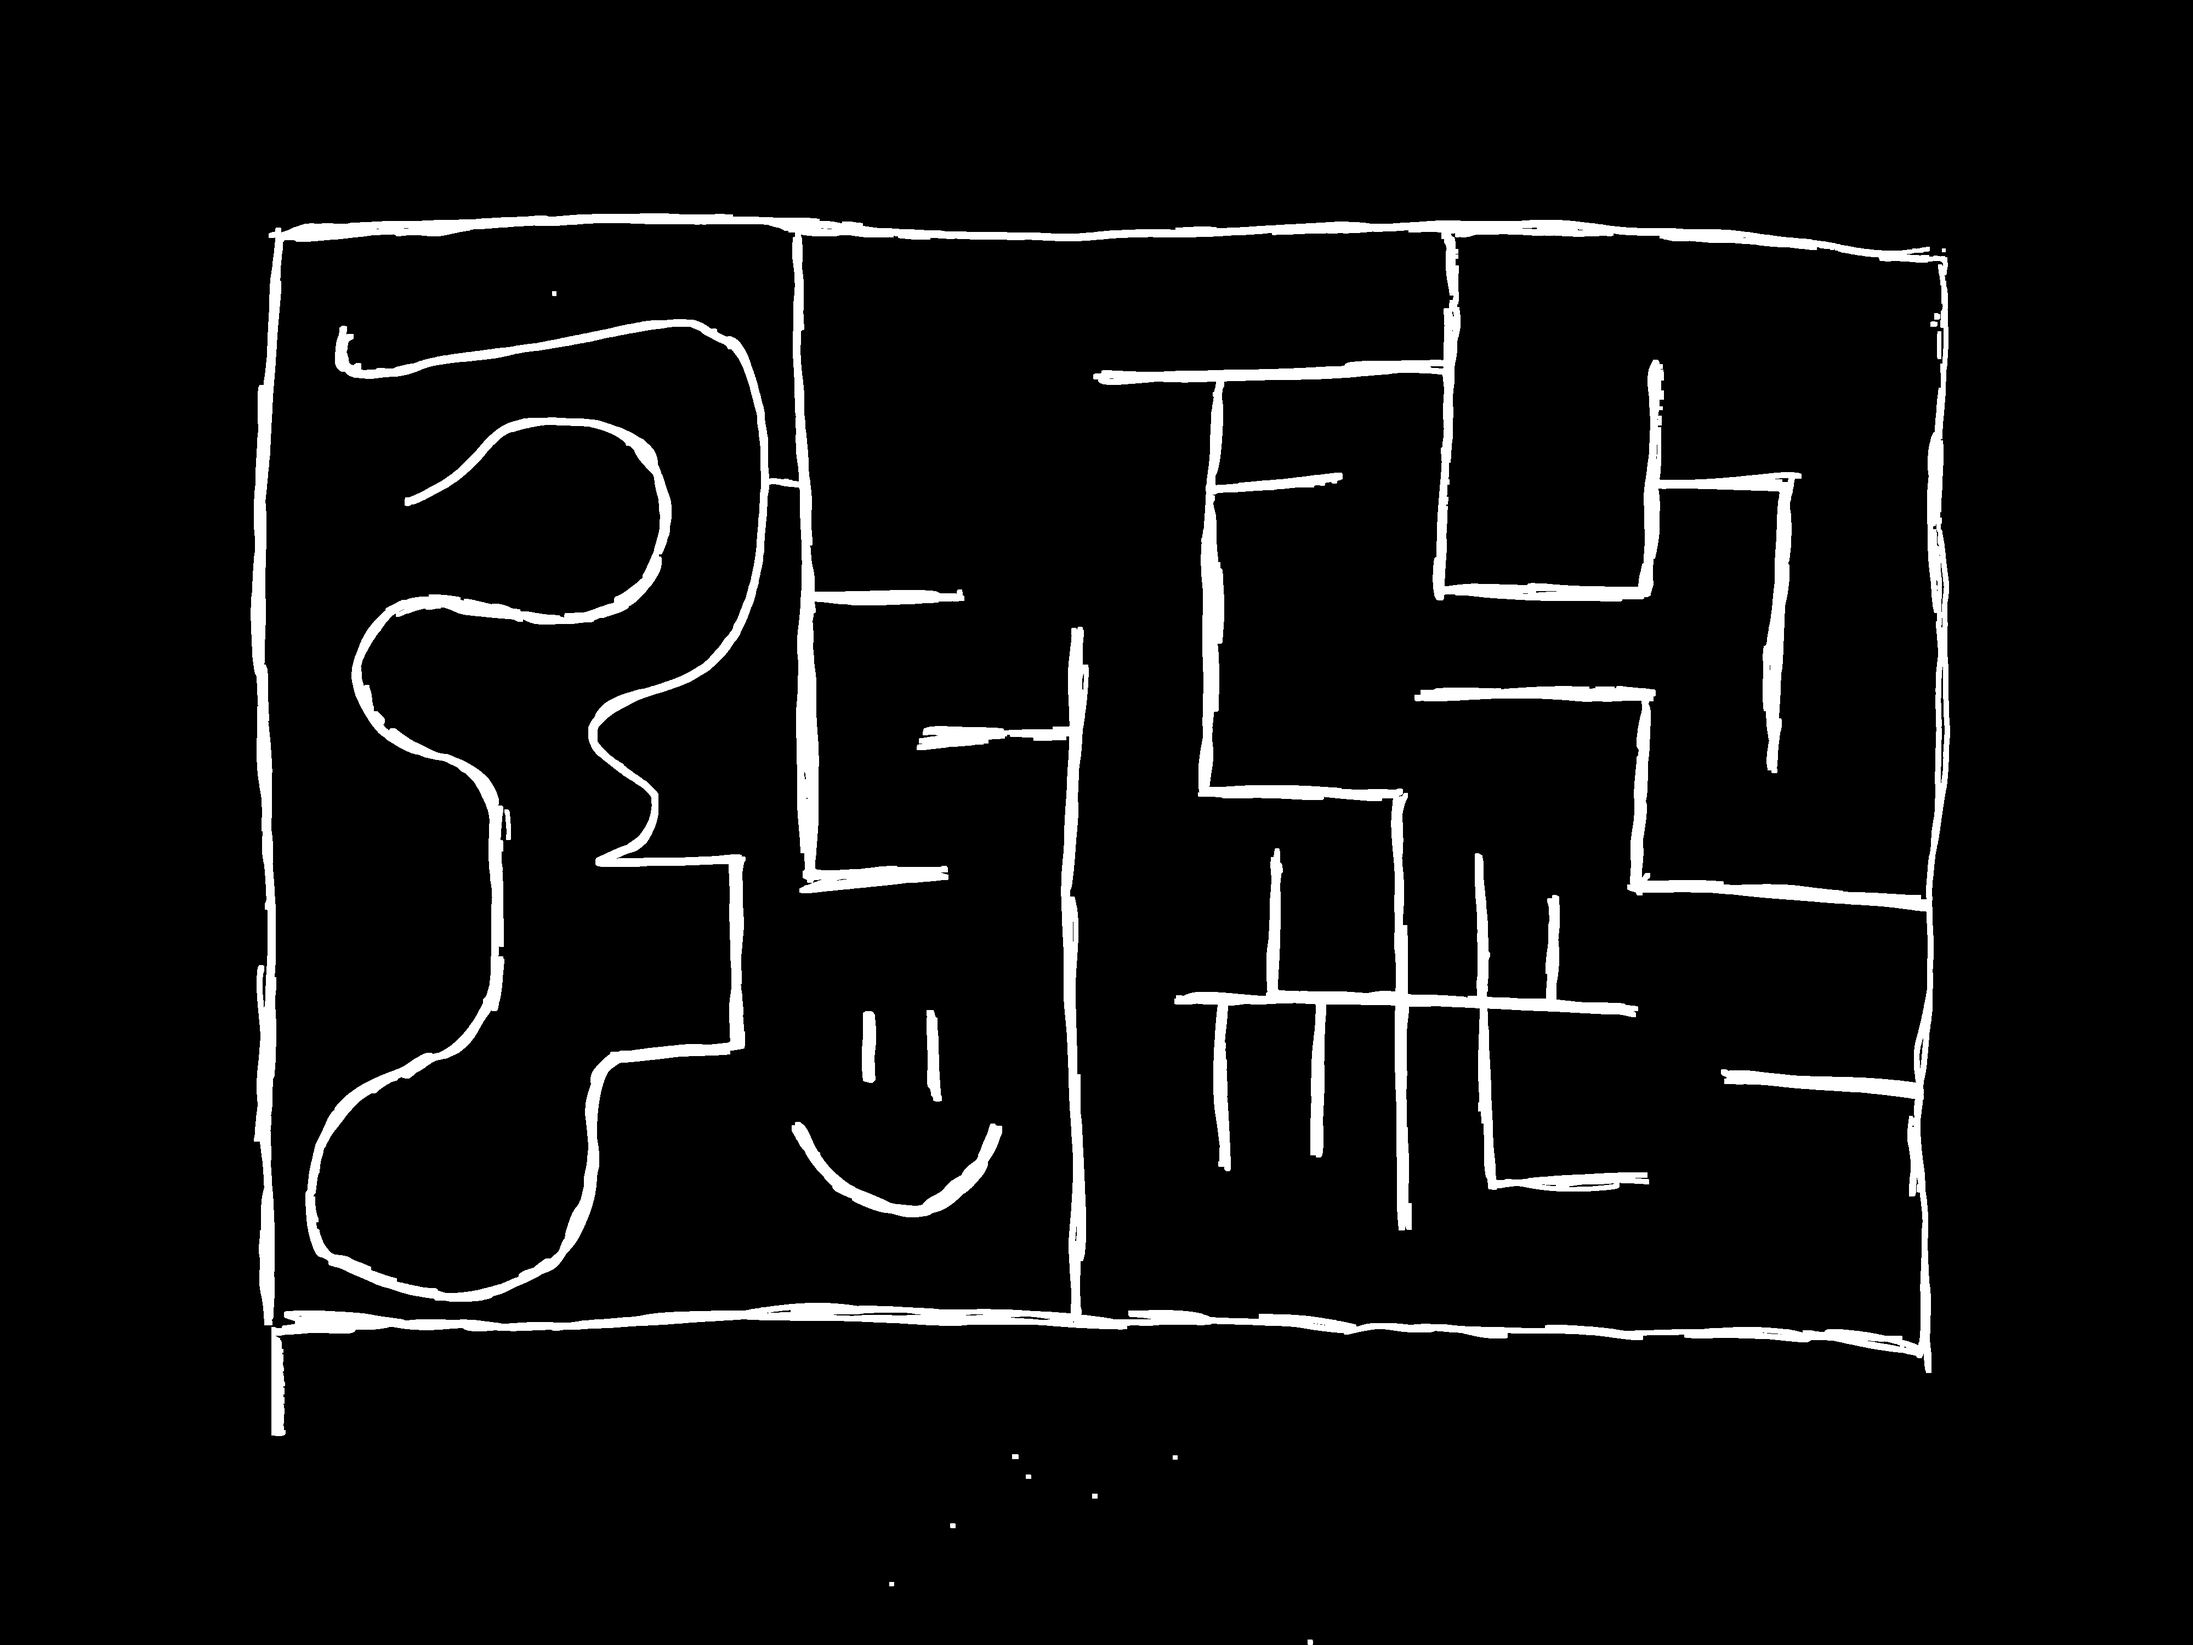
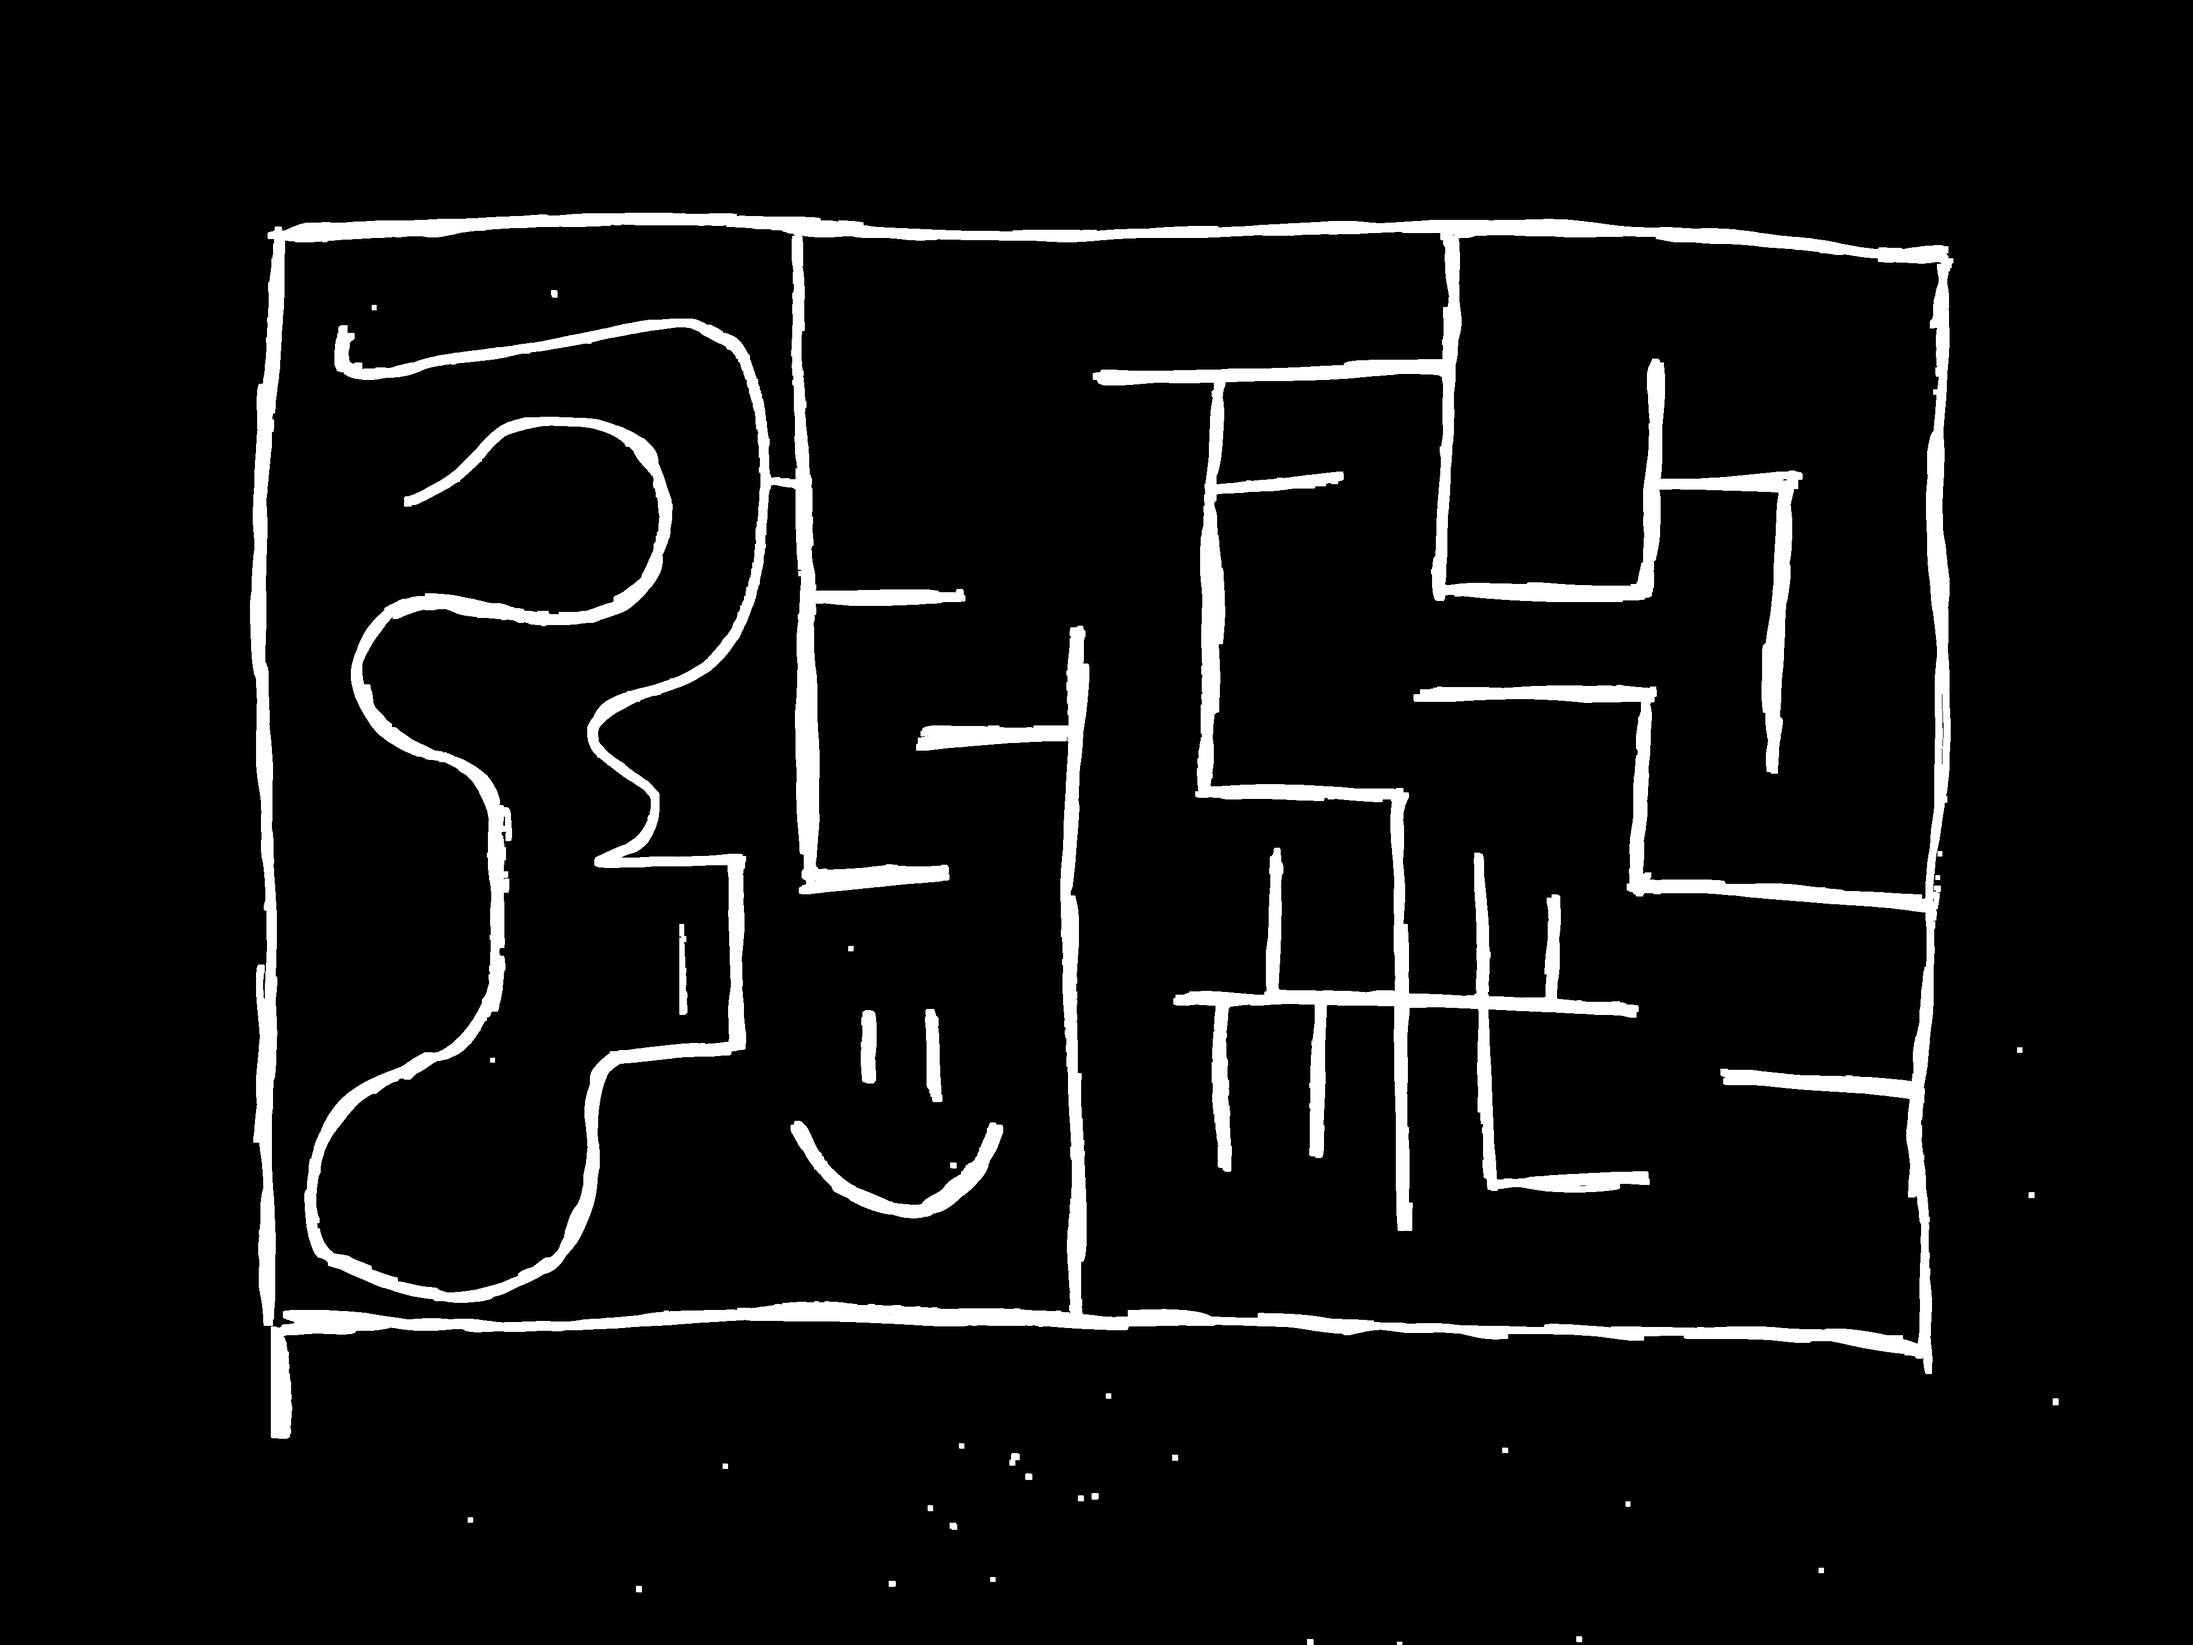
some tweaks and algorithm breakdown

Changed region(s): [[0.4375, 0.434, 0.4688, 0.465], [0.3438, 0.31, 0.375, 0.341], [0.125, 0.837, 0.1562, 0.868]]

diff --git a/utils.py b/utils.py
@@ -4,11 +4,20 @@ import time
 
 import numpy as np
 
-import dt_apriltags
 from dt_apriltags import Detector, Detection
 
 
+from threading import Timer
+
 WINDOW_LABELS = set()
+
+
+def move_window(label, x, y):
+    """
+    Move the window with the given label to the given position
+    """
+
+    cv2.moveWindow(label, x, y)
 
 
 def display_image(label, image, default_width: int = 800, default_height: int = 600, interpolation: int = cv2.INTER_LINEAR):
@@ -22,11 +31,15 @@ def display_image(label, image, default_width: int = 800, default_height: int = 
         new_width = default_height * width // height
         image = cv2.resize(image, (new_width, default_height), interpolation=interpolation)
 
-    WINDOW_LABELS.add(label)
     cv2.namedWindow(label, cv2.WINDOW_NORMAL)
     cv2.resizeWindow(label, default_width, default_height)
     cv2.imshow(label, image)
-    cv2.imwrite(f"debug-steps/{len(WINDOW_LABELS):03}_{label}.png", image)
+
+    if label not in WINDOW_LABELS:
+        cv2.imwrite(f"debug-steps/{len(WINDOW_LABELS)+1:03}_{label}.png", image)
+        Timer(5.0, move_window, args=(label, 0, 0)).start()
+
+    WINDOW_LABELS.add(label)
 
 
 def wait_frame():

diff --git a/main_camera_test.py b/main_camera_test.py
@@ -1,0 +1,37 @@
+import cv2
+
+import numpy as np
+import utils
+import cv_maze
+
+camera = cv2.VideoCapture(0)
+camera.set(cv2.CAP_PROP_FRAME_WIDTH, 1280)
+camera.set(cv2.CAP_PROP_FRAME_HEIGHT, 720)
+
+while utils.wait_frame():
+    ret, frame = camera.read()
+
+    if not ret:
+        break
+
+    utils.display_image("Camera", frame)
+
+    # convert the image to grayscale
+    image_gray = cv2.cvtColor(frame, cv2.COLOR_BGR2GRAY)
+
+    # extract the tags
+    tag_registry = utils.extract_tags_dict_single(image_gray)
+
+    # draw borders around the tags
+    for r in tag_registry.values():
+        (ptA, ptB, ptC, ptD) = r.corners
+
+        cv2.line(frame, np.int32(ptA), np.int32(ptB), (0, 255, 0), 5)
+        cv2.line(frame, np.int32(ptB), np.int32(ptC), (0, 255, 0), 5)
+        cv2.line(frame, np.int32(ptC), np.int32(ptD), (0, 255, 0), 5)
+        cv2.line(frame, np.int32(ptD), np.int32(ptA), (0, 255, 0), 5)
+
+    utils.display_image("Tags", frame)
+
+
+camera.release()

diff --git a/cv_maze.py b/cv_maze.py
@@ -53,13 +53,13 @@ def solve_maze(image, debug=False):
         # cv2.fillPoly(image, [np.int32(r.corners)], (0, 0, 0))
 
     # erode the image
-    eroded = cv2.erode(normalized_image, np.ones((7, 7), np.uint8))
+    eroded = cv2.erode(normalized_image, np.ones((9, 9), np.uint8))
     # eroded = cv2.GaussianBlur(eroded, (15, 15), 0)
 
     debug_image("Eroded", eroded)
 
     # binarize the image
-    _, thresh = cv2.threshold(eroded, 150, 255, cv2.THRESH_BINARY)
+    _, thresh = cv2.threshold(eroded, 200, 255, cv2.THRESH_BINARY)
     thresh = cv2.bitwise_not(thresh)
 
     debug_image("Threshold", thresh)

diff --git a/ALGORITHM.md b/ALGORITHM.md
@@ -1,0 +1,42 @@
+# Algorithm Explanation
+
+- Step 001: Load the image
+
+    <img src="debug-steps/001_Image.png" alt="step 1 - image" width="500">
+
+- Step 002: Normalize the image
+
+    <img src="debug-steps/002_Normalized.png" alt="step 2 - normalized" width="500">
+
+- Step 003: Erode the image
+
+    <img src="debug-steps/003_Eroded.png" alt="step 3 - eroded" width="500">
+
+- Step 004: Threshold the image
+
+    <img src="debug-steps/004_Threshold.png" alt="step 4 - threshold" width="500">
+
+- Step 005: Dilate the image
+
+    <img src="debug-steps/005_Dilated.png" alt="step 5 - dilated" width="500">
+
+- Step 006: Crop the image
+
+    <img src="debug-steps/006_Cropped.png" alt="step 6 - cropped" width="500">
+
+- Step 007: Show the maze with start and end points
+
+    <img src="debug-steps/007_Maze.png" alt="step 7 - maze" width="500">
+
+- Step 008: Create the maze bitmap
+
+    <img src="debug-steps/008_Maze Bitmap.png" alt="step 8 - maze bitmap" width="500">
+
+- Step 009: Find the maze path
+
+    <img src="debug-steps/009_Maze Path.png" alt="step 9 - maze path" width="500">
+
+- Step 010: Show the solution
+
+    <img src="debug-steps/010_Solution.png" alt="step 10 - solution" width="500">
+
